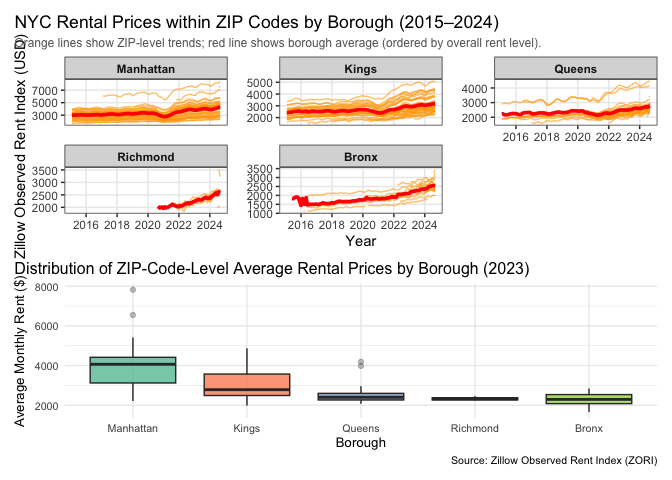
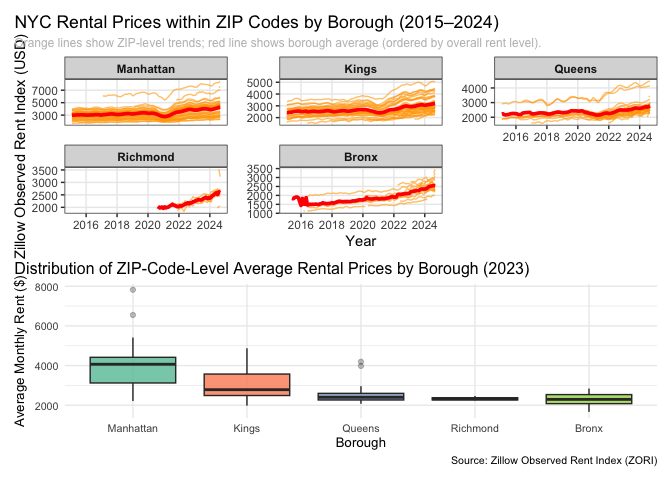
drawing

Changed region(s): [[0.0312, 0.0625, 0.8125, 0.125]]

diff --git a/p8105_hw3_zn2220.md b/p8105_hw3_zn2220.md
@@ -465,7 +465,7 @@ p1 <- ggplot(fz_df, aes(x = period, y = value, group = postal_code)) +
   theme_bw(base_size = 11) +
   theme(
     plot.title.position = "plot",
-    plot.subtitle = element_text(size = 9, color = "gray40"),
+    plot.subtitle = element_text(size = 9, color = "gray"),
     strip.text = element_text(face = "bold"),
     panel.grid.minor = element_blank(),
     panel.spacing = unit(1, "lines")
